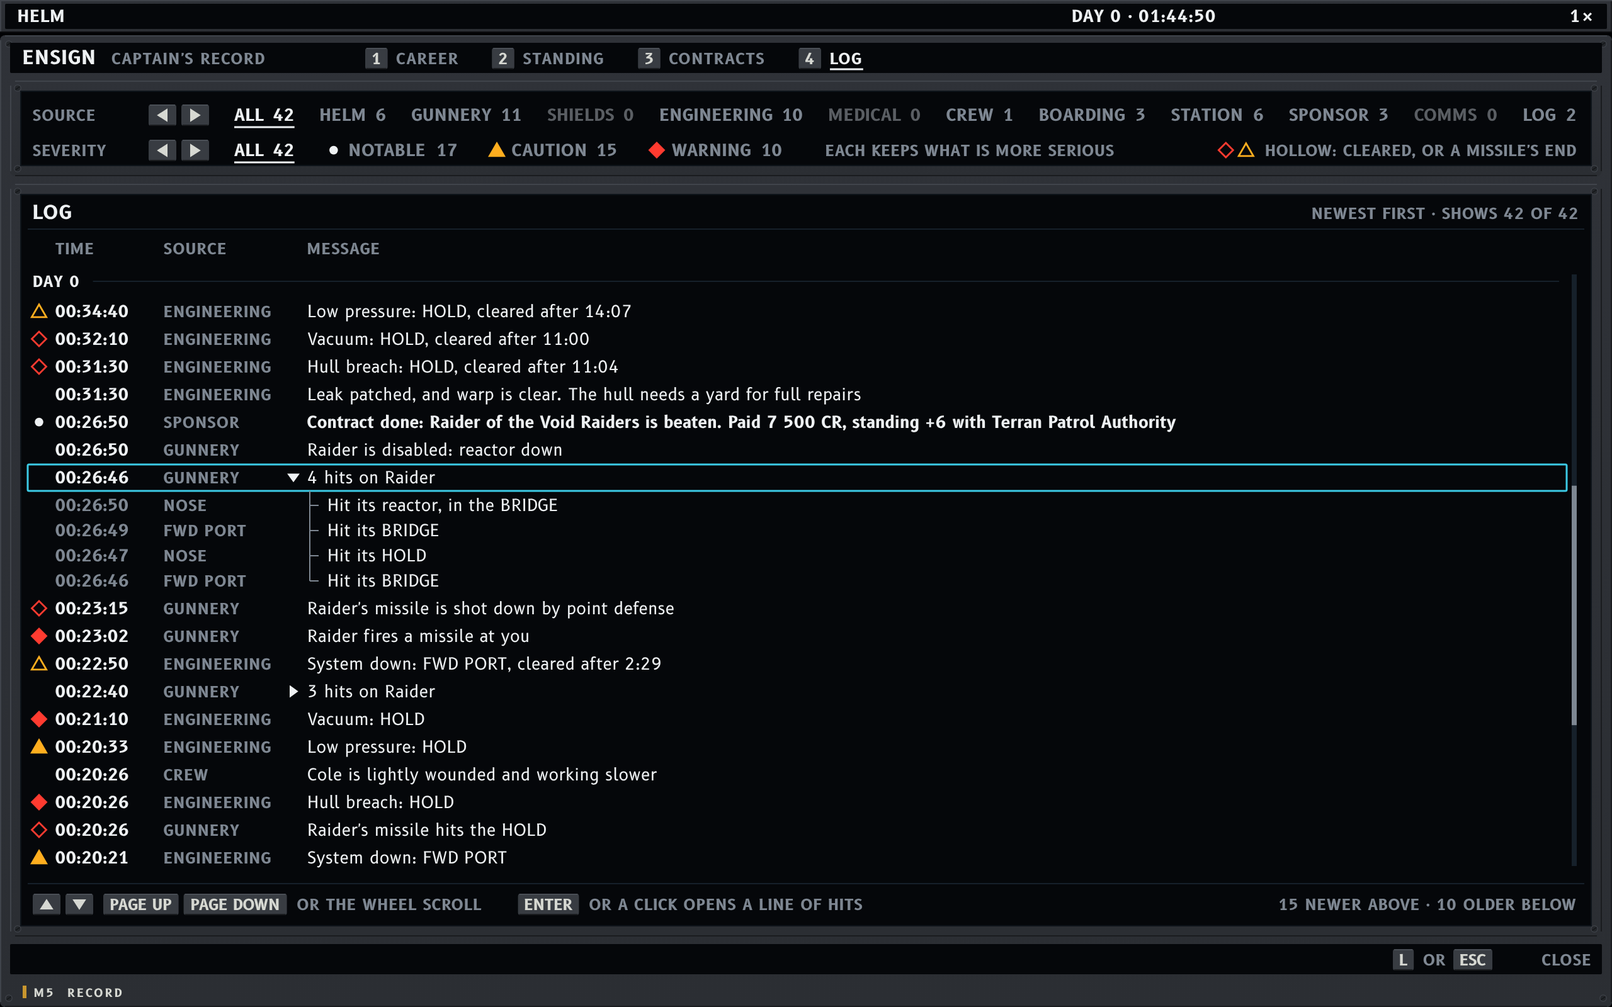
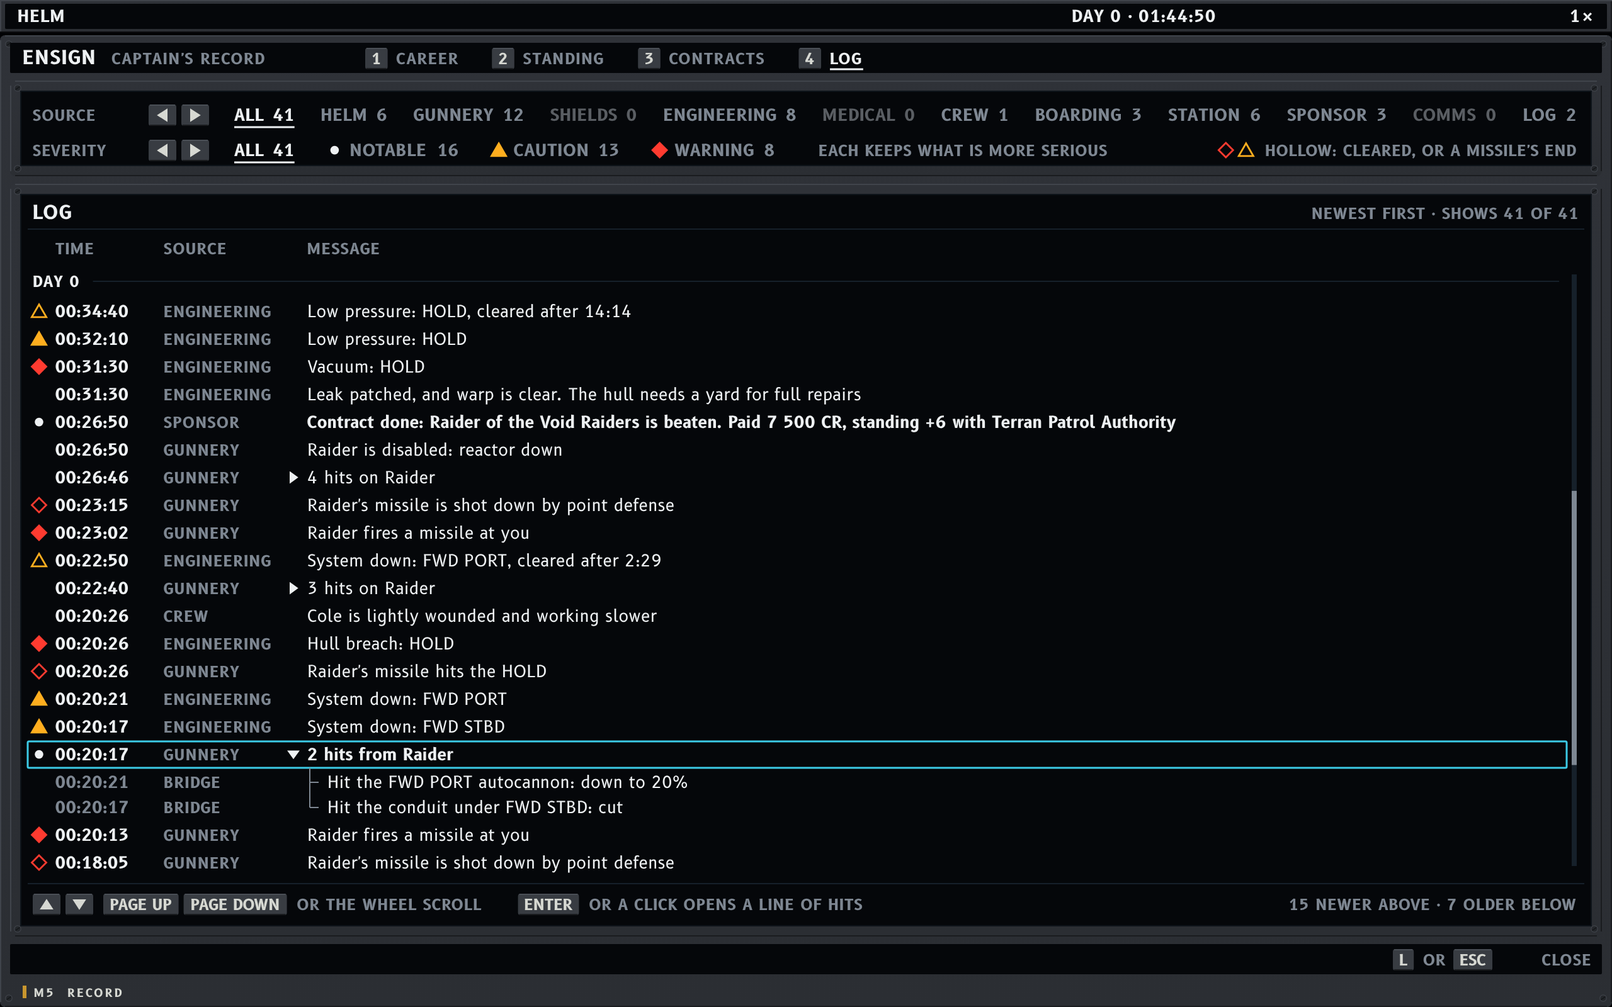
Nasa-punk screens: the record's Log and the deck emergency at context version 17
The hold's air follows P2's one row from breach to refilled, the raider's gun
hits on the ship are a line of their own, opened to where each landed, and the
deck emergency's caution panel and master cue read BREACH.

Claude-Session: https://claude.ai/code/session_019poqwU7t7xAtWdh55iGaqe

diff --git a/documentation/ui-overhaul/variations/nasapunk-context/c9-record-log.html b/documentation/ui-overhaul/variations/nasapunk-context/c9-record-log.html
@@ -9,30 +9,36 @@
 <script src="../../nasapunk/mockups/screens.js"></script>
 <script src="context.js"></script>
 <script>
-// M5, the captain's record (the context spec, 10.5), on its Log tab, at version 16: the Log keeps a
+// M5, the captain's record (the context spec, 10.5), on its Log tab, at version 17: the Log keeps a
 // fight's record. First Play's NOTICES step says "L opens the notice log: the fight, the bounty and
 // the yard's work are all there". Docked at Highport at the helm after the fight with the raider,
 // the boarding of C6 and C4, the prisoners handed over and the yard's repairs ordered, the captain
-// has pressed L, which opens M5 on this tab, scrolled down to the fight, and opened the line of hits
-// that disabled the raider (Enter on the focused line, or a click). The mode's frame is C8's: P1
-// above (nothing is wrong, so no chip), the title row with the rank and the tabs on their numbers,
-// the filters, the list, and the foot row with the feed and the close keys. The feed is empty: the
-// last message, the yard's, has had its 5 s.
+// has pressed L, which opens M5 on this tab, scrolled down to the fight, and opened the line of the
+// raider's hits on the corvette (Enter on the focused line, or a click), so the whole fight is on
+// the page with one line open. The mode's frame is C8's: P1 above (nothing is wrong, so no
+// chip), the title row with the rank and the tabs on their numbers, the filters, the list, and the
+// foot row with the feed and the close keys. The feed is empty: the last message, the yard's, has had
+// its 5 s.
 //
 // The list is every message with its day and time, newest first, under a header for each day that
-// stays at the top as the list scrolls, and with them what the feed leaves to P2 and P3 (P4,
-// version 16): each condition as it is raised and as it clears, and each missile fired at the ship
-// and how it ended. So the fight's record has its hits. Three missiles came: point defense shot
-// down two, and the second got through to the hold, since the captain was on deck (C8), where there
-// is no decoy to throw; it breached the hold, stopped the RCS block bolted there and wounded Cole.
-// The raider's guns cut the conduit under the forward starboard autocannon and left the forward port
-// one at 20%: two SYSTEM DOWN cautions, the port one cleared by Ada's repair, the starboard one
-// waiting for the yard. The hold vented, under 70% and then to vacuum, until the crew patched the
-// leak once the fight was over, and refilled. A condition takes its long form (P2: the long form is
-// the Log's wording), its room by section 5.5, and on clearing the time it held. The missiles are
-// told in the game's voice for other craft ("Raider opens its port to you"). The feed's merged
-// gunnery lines stay, each opening to its events with their times: the gun that fired, and the
-// room of the raider it hit (the raider is a corvette too, so its rooms are BRIDGE and HOLD).
+// stays at the top as the list scrolls, and with them what the feed leaves to P2 and P3 (P4): each
+// condition as it is raised and as it clears, each missile fired at the ship and how it ended, and
+// the hits the ship takes from guns, merged as the feed merges its own. So the record says what
+// caused the damage. Three missiles came: point defense shot down two, and the second got through to
+// the hold, since the captain was on deck (C8), where there is no decoy to throw; it breached the
+// hold, stopped the RCS block bolted there and wounded Cole. Two hits from the raider's guns cut the
+// conduit under the forward starboard autocannon and left the forward port one at 20%: two SYSTEM
+// DOWN cautions, the port one cleared by Ada's repair, the starboard one waiting for the yard. The
+// hold's air is one row at a time (P2, version 17): BREACH while the breach is open, VACUUM once the
+// crew have patched it after the fight and the hold is still airless, PRESS LOW while it refills,
+// and the clearing timed from the first. A condition takes the catalogue's long form, its room by
+// section 5.5, and the source of what it is about: the hull, the air and the systems Engineering's,
+// a wound Crew's; a missile is Gunnery's, as point defense is, and its lines are warnings; hits taken
+// are Gunnery's too, and notable. The missiles are told in the game's voice for other craft ("Raider
+// opens its port to you"). The feed's merged gunnery lines stay, each opening to its events with
+// their times: for the ship's own hits, the gun that fired and the room of the raider it hit (the
+// raider is a corvette too, so its rooms are BRIDGE and HOLD); for hits taken, the room each landed
+// in and what it did. A merged line takes its first event's time.
 //
 // The other texts are the game's own notices with P4's source tags, as in version 15: the bounty
 // (ContractBoard: a bounty is done the moment its ship is beaten, 7 500 cr and 6 standing with the
@@ -40,16 +46,15 @@
 // taking (Boarding), the prisoners brought aboard and handed over for 400 cr each (Prisoners), the
 // leak patched (DamageControl) and the yard's order (StationYard). Hostile crew are named by number
 // (HostileSpawns). Thousands take the style's thin space, and a unit after a number is the word
-// list's (CR). P4 gives no source for a condition or a missile: the hull, the air and a system down
-// are Engineering's here, as its repairs are, and a missile is Gunnery's, as point defense is.
+// list's (CR).
 //
 // The severity marks are P2's shapes: ◆ a warning, ▲ a caution, a white dot a notable (the game's
 // IMPORTANT) message, nothing for routine; a clearing, and a missile's end, keep the row's mark,
 // hollow. The two filters are controls at the top of the tab, stepped with ← and → once focused
 // (FocusNav) or by a click on a position; the set position is white and underlined, as a tab is.
-// Severity is a threshold: each position keeps what is more serious. The focus, in the cursor's
-// colour, is on the opened line. The list scrolls with ↑ and ↓ once it has the focus, Page Up and
-// Page Down, and the wheel.
+// The source filter takes one source or all, and severity is a threshold: each position keeps what
+// is more serious. The focus, in the cursor's colour, is on the opened line. The list scrolls
+// with ↑ and ↓ once it has the focus, Page Up and Page Down, and the wheel.
 let s = space({ px: 2200, py: 2400, pr: 1, seed: 14 });
 s += statusStrip({ seat: 'HELM', clock: 'DAY 0 · 01:44:50', warp: '1×' });
 s += consoleBody(0, 28, 1280, 772, {});
@@ -84,7 +89,8 @@ s += text(18, 51, 'ENSIGN', { size: V, bold: true, fill: C.white, track: 0.8 }) 
 
 // ---- the log's entries, newest first ----
 // [time, source, severity ('w' warning, 'c' caution, 'n' notable, '' routine; 'w-' and 'c-' a
-// clearing or a missile's end), text, { merged: a line of hits, open: its events when opened }]
+// clearing or a missile's end), text, { merged: a line of hits, open: its events when opened,
+// focus: the line with the focus }]
 const LOG = [
   ['01:43:10', 'STATION', '', 'Repairs ordered: about 920 CR, paid as the work is done'],
   ['01:41:52', 'STATION', '', 'Crew 4 (Void Raiders) handed over: +400 CR'],
@@ -101,29 +107,29 @@ const LOG = [
   ['01:24:40', 'HELM', '', 'Docked at Raider'],
   ['01:24:10', 'HELM', '', 'Your collar has hold of Raider; drawing in'],
   ['01:23:05', 'HELM', '', 'Raider opens its port to you; port armed'],
-  ['00:34:40', 'ENGINEERING', 'c-', 'Low pressure: HOLD, cleared after 14:07'],
-  ['00:32:10', 'ENGINEERING', 'w-', 'Vacuum: HOLD, cleared after 11:00'],
-  ['00:31:30', 'ENGINEERING', 'w-', 'Hull breach: HOLD, cleared after 11:04'],
+  ['00:34:40', 'ENGINEERING', 'c-', 'Low pressure: HOLD, cleared after 14:14'],
+  ['00:32:10', 'ENGINEERING', 'c', 'Low pressure: HOLD'],
+  ['00:31:30', 'ENGINEERING', 'w', 'Vacuum: HOLD'],
   ['00:31:30', 'ENGINEERING', '', 'Leak patched, and warp is clear. The hull needs a yard for full repairs'],
   ['00:26:50', 'SPONSOR', 'n', 'Contract done: Raider of the Void Raiders is beaten. Paid 7 500 CR, standing +6 with Terran Patrol Authority'],
   ['00:26:50', 'GUNNERY', '', 'Raider is disabled: reactor down'],
-  ['00:26:46', 'GUNNERY', '', '4 hits on Raider', { merged: true, open: [
-    ['00:26:50', 'NOSE', 'Hit its reactor, in the BRIDGE'],
-    ['00:26:49', 'FWD PORT', 'Hit its BRIDGE'],
-    ['00:26:47', 'NOSE', 'Hit its HOLD'],
-    ['00:26:46', 'FWD PORT', 'Hit its BRIDGE'],
-  ] }],
+  // closed, as the other lines of hits are; opened it would list, newest first, 00:26:50 NOSE "Hit
+  // its reactor, in the BRIDGE", 00:26:49 FWD PORT "Hit its BRIDGE", 00:26:47 NOSE "Hit its HOLD"
+  // and 00:26:46 FWD PORT "Hit its BRIDGE": the gun that fired and the raider's room it hit
+  ['00:26:46', 'GUNNERY', '', '4 hits on Raider', { merged: true }],
   ['00:23:15', 'GUNNERY', 'w-', 'Raider\'s missile is shot down by point defense'],
   ['00:23:02', 'GUNNERY', 'w', 'Raider fires a missile at you'],
   ['00:22:50', 'ENGINEERING', 'c-', 'System down: FWD PORT, cleared after 2:29'],
   ['00:22:40', 'GUNNERY', '', '3 hits on Raider', { merged: true }],
-  ['00:21:10', 'ENGINEERING', 'w', 'Vacuum: HOLD'],
-  ['00:20:33', 'ENGINEERING', 'c', 'Low pressure: HOLD'],
   ['00:20:26', 'CREW', '', 'Cole is lightly wounded and working slower'],
   ['00:20:26', 'ENGINEERING', 'w', 'Hull breach: HOLD'],
   ['00:20:26', 'GUNNERY', 'w-', 'Raider\'s missile hits the HOLD'],
   ['00:20:21', 'ENGINEERING', 'c', 'System down: FWD PORT'],
   ['00:20:17', 'ENGINEERING', 'c', 'System down: FWD STBD'],
+  ['00:20:17', 'GUNNERY', 'n', '2 hits from Raider', { merged: true, open: [
+    ['00:20:21', 'BRIDGE', 'Hit the FWD PORT autocannon: down to 20%'],
+    ['00:20:17', 'BRIDGE', 'Hit the conduit under FWD STBD: cut'],
+  ], focus: true }],
   ['00:20:13', 'GUNNERY', 'w', 'Raider fires a missile at you'],
   ['00:18:05', 'GUNNERY', 'w-', 'Raider\'s missile is shot down by point defense'],
   ['00:17:52', 'GUNNERY', 'w', 'Raider fires a missile at you'],
@@ -202,7 +208,7 @@ s += du(8, 146, 1264, 598, {
       }
       g += text(M, y, msg, { size: B, bold: k === 'n', fill: C.white, track: 0.1 });
       // the focus, in the cursor's colour, on the opened line
-      if (o.open) g += rect(L - 4, y - 15, TR - L - 4, 21, { stroke: C.cyan, sw: 1.5, r: 1 });
+      if (o.focus) g += rect(L - 4, y - 15, TR - L - 4, 21, { stroke: C.cyan, sw: 1.5, r: 1 });
       // its events, each with its time, the gun that fired and where it hit, on a bracket
       if (ev.length) {
         const y0 = y + 6;

diff --git a/documentation/ui-overhaul/variations/nasapunk-context/c3-deck-emergency.html b/documentation/ui-overhaul/variations/nasapunk-context/c3-deck-emergency.html
@@ -49,12 +49,14 @@ s += `<g opacity="0.4">` + statusStrip({ seat: 'DECK', authority: 'HELM: NOBODY'
 
 // P2 in its order (version 11): what needs you, then what the crew hold back from, then what they
 // are on. Nobody is free for the oxygen or the reactor: Ada is down, Cole tends Ada and Bea fights
-// the fire alone. The hold's air waits (‖), since Ada was hit there; Ada doesn't, with 1:40 left.
-// SMOKE goes under "+1 more"
+// the fire alone. The hold's breach waits (‖), since Ada was hit there; Ada doesn't, with 1:40 left.
+// The hold's air is one row, its cause (version 17): BREACH while the breach is open, its hover
+// saying the hold is at vacuum, while D3 tags the vacuum where people would walk into it. SMOKE goes
+// under "+1 more"
 s += cwPanel([
   ['warning', 'EMERG O2', '', 'you'],
   ['warning', 'NO POWER', 'DAMAGED', 'you'],
-  ['warning', 'VACUUM', 'HOLD', 'held'],
+  ['warning', 'BREACH', 'HOLD', 'held'],
   ['warning', 'CREW CRIT', 'ADA', 1, '1:40'],
   ['warning', 'FIRE', 'BRIDGE', 1],
 ], { more: ['SMOKE'] });
@@ -114,7 +116,7 @@ s += du(12, 558, 308, 134, {
 }
 
 // the master alert cue, standing alone at the centre of the bottom-centre zone: the newest warning
-s += masterCue(640, 676, { sev: 'warning', code: 'VACUUM' });
+s += masterCue(640, 676, { sev: 'warning', code: 'BREACH' });
 
 document.getElementById('out').innerHTML = svgPage(s);
 </script>

diff --git a/documentation/ui-overhaul/variations/nasapunk-context/README.md b/documentation/ui-overhaul/variations/nasapunk-context/README.md
@@ -1,6 +1,6 @@
 # Nasa-punk × Context-driven
 
-The context-driven functional spec (`functional-context.md`, version 16 when drawn, on branch
+The context-driven functional spec (`functional-context.md`, version 17 when drawn, on branch
 `claude/project-thread-ukjzrp`) skinned in the Nasa-punk style
 (`../../nasapunk/style-nasapunk.md`), with its words from
 [`../../nasapunk/abbrev.md`](../../nasapunk/abbrev.md). Mockups are 1280 x 800 UI units drawn at 2x; sources are
@@ -78,14 +78,16 @@ marker at the same bearing.
 **C3, on deck, the corvette disabled at battle stations (11.7).** The reactor is damaged, so no
 power is due back by itself and X3 offers the ways out; the hold has lost its air. Ada was hit in
 the hold and lies there with Cole tending; Bea fights the fire in the bridge alone. P2 ranks EMERG
-O2 and NO POWER as needing the captain, since nobody is free for them. VACUUM comes next, held (the
-white bars): the crew keep clear of where Ada was hit until the fight ends. CREW CRIT and FIRE
+O2 and NO POWER as needing the captain, since nobody is free for them. BREACH comes next, held (the
+white bars): the crew keep clear of where Ada was hit until the fight ends. A room's air is one row
+at a time (version 17), its cause while the crew can act on it, so the hold reads BREACH, and its
+hover says the hold is at vacuum. CREW CRIT and FIRE
 follow with their one worker each, and Ada's 1:40 is under the two minutes that send the crew in
 anyway. SMOKE folds into "+1 MORE". The captain, by the helm with a light wound and suited in the
 bridge's thin air, has pressed B once: the tow is armed, its guard up and its bar running out. P1
 dims under X3. P5 isn't drawn, since in combat it shows only a fight's contract. The master cue
-stays lit at the bottom centre with the newest warning, VACUUM. D3 tags the fire, the smoke, the
-vacuum and Ada. Bottom left is H4's deck face over the DCM: the hull at 81%, the store empty and
+stays lit at the bottom centre with the newest warning, BREACH. D3 tags the fire, the smoke, the
+vacuum where people would walk into it, and Ada. Bottom left is H4's deck face over the DCM: the hull at 81%, the store empty and
 the reactor giving 0 of its 3.0 MW, and 42 kg left of the 60 kg emergency oxygen.
 
 ![Boarding, latched](c4-boarding.png)
@@ -177,21 +179,24 @@ NOTICES step, whose own words are "L opens the notice log: the fight, the bounty
 work are all there", and L opens M5 on this tab. The frame is C8's: P1 above with nothing wrong, the
 title row with the rank and the four tabs, the filters, the list, and the foot row, whose feed is
 empty since the yard's line has had its 5 s. The captain has scrolled to the fight and opened the
-line of hits that disabled the raider. The Log keeps a fight's record (version 16): beside every
-message, each condition as it is raised and as it clears, with the time it held, and each missile
-fired at the ship and how it ended. So the record says that point defense shot down two of the
-raider's three missiles and the second hit the hold, while the captain was on deck in C8 with no
-decoy to throw; that the hold vented to vacuum until the crew patched it after the fight; and that
-Ada's repair brought the forward port gun back in two and a half minutes. The texts are the game's
-own notices with P4's tags, the conditions in their long form with the room. The feed's merged
-gunnery lines stay, so the fight fits a page, and each opens to its hits: the time, the gun that
-fired and the room of the raider it hit. Severity is a mark, P2's diamond and triangle and a white
-dot for a notable message, hollow when it clears or a missile's flight ends, so a fight's record
-doesn't fill the glass with red. The two filters are controls at the top, a row of positions each
-with its count, stepped with ← and → once focused or by a click; the set one is white and
-underlined, as a tab is, an empty one is dark, and severity is a threshold. The list scrolls with ↑
-and ↓, Page Up and Page Down and the wheel, and the focus, in the cursor's cyan, is on the opened
-line.
+line of the raider's hits on the corvette. The Log keeps a fight's record (versions 16 and 17): with
+every message come each condition as it is raised and as it clears, each missile fired at the ship
+and how it ended, and the hits the ship takes from guns, merged as the feed merges its own. So the
+whole fight is on one page, and it says what caused the damage. Point defense shot down two of the
+raider's three missiles, and the second hit the hold, since the captain was on deck in C8 with no
+decoy to throw. Two hits from the raider's guns cut the conduit under the forward starboard gun and
+left the forward port one at 20%, and Ada's repair brought that one back in two and a half
+minutes. The hold's air follows P2's one row: the breach, the vacuum once the crew patched it after
+the fight, the low pressure as it refilled, and the clearing timed from the first. The texts are the
+game's own notices with P4's tags; a condition takes the catalogue's long form with its room and
+the source of what it is about. Each merged line opens to its events with their times: for the
+ship's own hits, the gun that fired and the raider's room it hit; for hits taken, the room each
+landed in and what it did. Severity is a mark, P2's diamond and triangle and a white dot for a
+notable message, hollow when it clears or a missile's flight ends, so a fight's record doesn't
+fill the glass with red. The two filters are controls at the top, a row of positions each with its
+count, stepped with ← and → once focused or by a click; the set one is white and underlined, as a
+tab is, an empty one is dark, and severity is a threshold. The list scrolls with ↑ and ↓, Page Up
+and Page Down and the wheel, and the focus, in the cursor's cyan, is on the opened line.
 
 ![Controls](c10-controls.png)
 
@@ -209,7 +214,7 @@ aims that gun alone, Fire or a click fires it, the wheel zooms and V stands up, 
 the rest are fire control's. The missile and the decoy share a row, as the strafe keys do, so each
 seat fits its columns.
 
-## Round 8 critique (version 16)
+## Round 8 critique (versions 16 and 17)
 
 Version 16 took the four questions C9 and C10 raised. The Log keeps the conditions and missiles
 that the feed leaves to P2 and P3, as they start and end, and the merged gunnery lines, each opening
@@ -229,6 +234,17 @@ record found four more questions, sent to the designer:
   where each missile ended, but the raider's gun hits on the corvette show only as the SYSTEM DOWN
   they raise, with nothing to say what did it. A merged line for hits taken, opening to where each
   landed, would close the gap.
+
+Version 17 took all four. A condition takes the source of what it is about, as C9 had them, and
+missiles go under Gunnery as warnings. The long form with the room and "cleared after" is the
+format, and P4's example now uses it. P2 shows a room's air as one row, the first of BREACH,
+VACUUM and PRESS LOW that holds, so one hole never takes three rows, and the Log follows that
+course; C3's row and master cue read BREACH now. The Log takes the hits from guns as notable merged
+lines, which needs the game's hit event to name the shooter. The severity threshold and a merged
+line's first-event time, my choices, are in too. C9 and C3 are redrawn to it.
+
+**Converged** at version 17: nothing meaningful is left in the windows the overhaul skipped, and
+the HUD screens stay converged from round 7.
 
 ## Round 7 critique (versions 10 to 15)
 

diff --git a/documentation/ui-overhaul/variations/nasapunk-round-log.md b/documentation/ui-overhaul/variations/nasapunk-round-log.md
@@ -395,17 +395,22 @@ after a number, as prose does, and the arrow keys' caps are drawn (`arrowKey` an
 Version 16 took all four, and C9 and C10 are redrawn to it. C9's Log now holds the fight's whole
 record: the raider's three missiles (two shot down, one into the hold), the breach, the hold's
 pressure and vacuum and the two guns down, each as it was raised and as it cleared, with the time
-it held, and the line of hits that disabled the raider opened to its four hits. Its filters are a
-row of positions each at the top of the tab, and severity has CAUTION now that cautions are in the
-record. C10 gives the gun seat its own section under fire control's. Drawing the record found four
+it held, and the line of hits that disabled the raider opened to its four hits. Its two filters sit
+at the top of the tab, each a row of positions with their counts, and severity has CAUTION now that
+cautions are in the record. C10 gives the gun seat its own section under fire control's. Drawing the record found four
 more questions.
 
 | Spec | Note sent this round | Landed |
 |---|---|---|
-| Context (P4) | P4 gives no source for a condition or a missile. C9 puts the hull, the air and a system down under Engineering, as its repairs are, and a missile under Gunnery, as point defense is | |
-| Context (P2, P4) | P2 says the long form is the Log's wording; P4's example uses the short code ("VACUUM HOLD cleared, 2:10"). C9 writes "Hull breach: HOLD" and "Hull breach: HOLD, cleared after 11:04" | |
-| Context (P2) | A room that goes from low pressure to vacuum and back: P2's example has no PRESS LOW row beside a VACUUM one. C9 takes the vacuum to stand in for the low pressure while it holds, and logs four entries | |
-| Context (10.5, P4) | The hits the ship takes from guns aren't in the record: the raider's gun hits show only as the SYSTEM DOWN they raise. Should the Log take a merged line for hits taken, opening to where each landed? | |
+| Context (P4) | P4 gives no source for a condition or a missile. C9 puts the hull, the air and a system down under Engineering, as its repairs are, and a missile under Gunnery, as point defense is | Version 17: as drawn, and the rest by what each is about (a wound under Crew, shields under Shields, boarders under Boarding, the orbit and the approach under Helm); missiles are warnings |
+| Context (P2, P4) | P2 says the long form is the Log's wording; P4's example uses the short code ("VACUUM HOLD cleared, 2:10"). C9 writes "Hull breach: HOLD" and "Hull breach: HOLD, cleared after 11:04" | Version 17: the long form, in C9's format, which P4's example now uses |
+| Context (P2) | A room that goes from low pressure to vacuum and back: P2's example has no PRESS LOW row beside a VACUUM one. C9 takes the vacuum to stand in for the low pressure while it holds, and logs four entries | Version 17: a room's air is one row, the first that holds of BREACH, VACUUM (sealed, still airless) and PRESS LOW (refilling), and the Log follows that course with the clearing timed from the first; C9 and C3 are redrawn to it |
+| Context (10.5, P4) | The hits the ship takes from guns aren't in the record: the raider's gun hits show only as the SYSTEM DOWN they raise. Should the Log take a merged line for hits taken, opening to where each landed? | Version 17: yes, "Gunnery: 2 hits from Raider", notable, opening to where each landed and what it did; the game's hit event gains its shooter |
+
+Version 17 took all four, with my two choices (severity as a threshold, a merged line at its first
+event's time). C9 is redrawn to it, with the raider's two gun hits on the corvette as a line of their
+own, opened, and the hold's air as one course from breach to refilled; C3's P2 row and master cue
+read BREACH. The context screens are converged at version 17.
 
 ## Next
 
